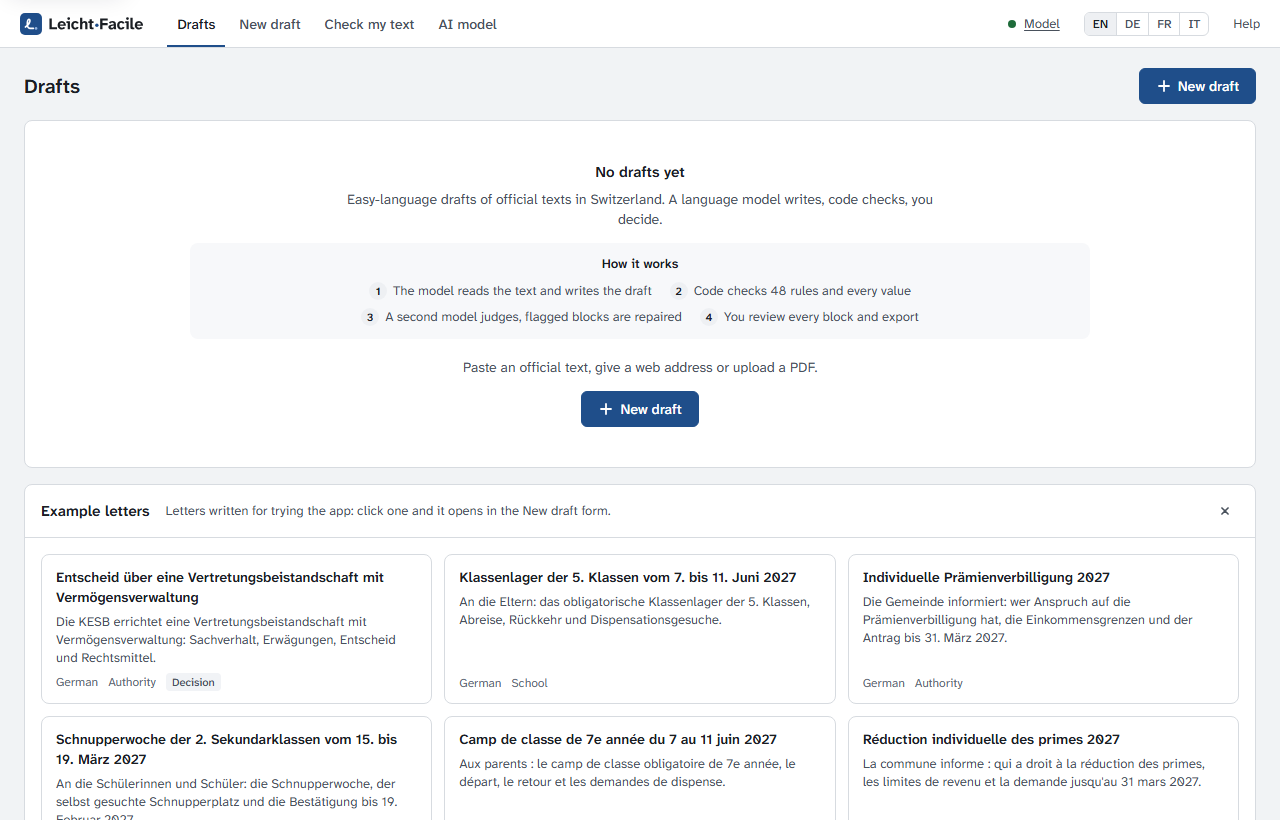
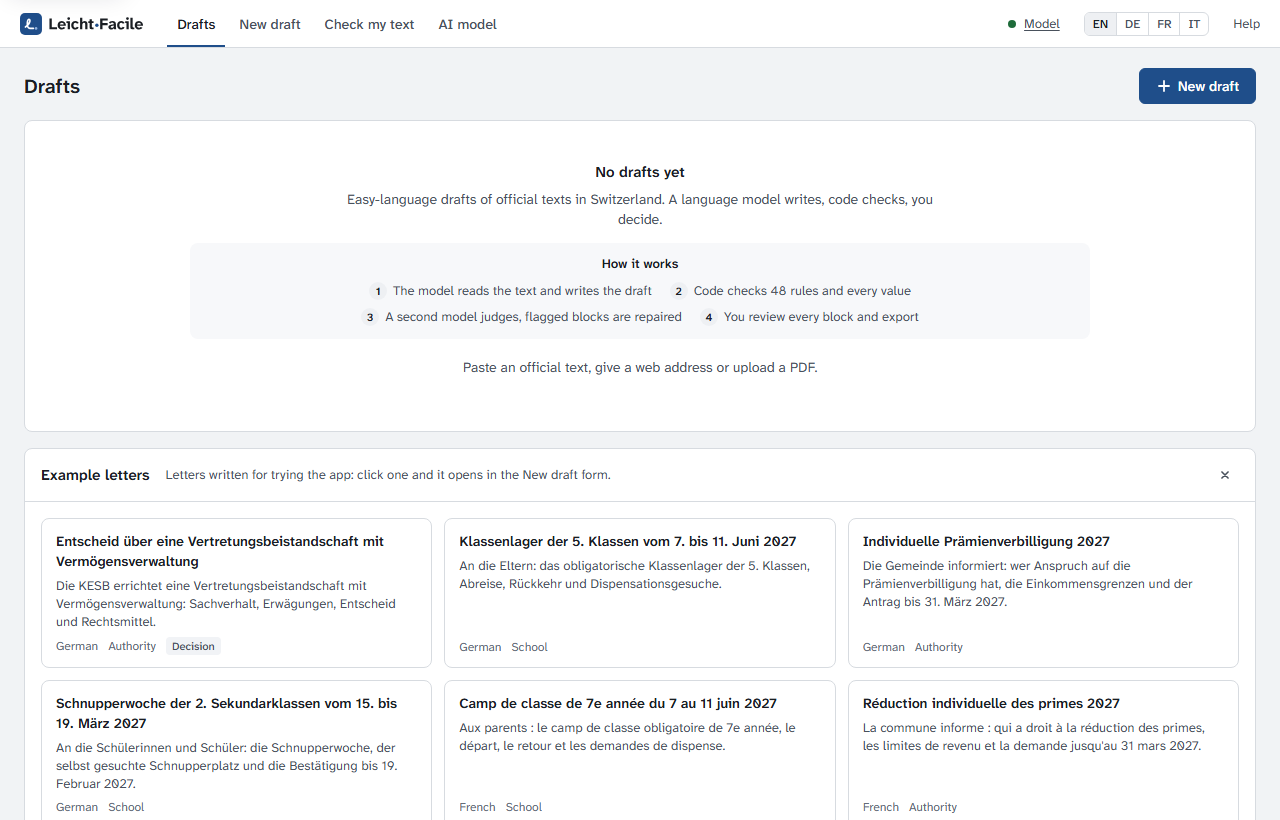
Empty drafts list: one New draft button, the page header's; the show-again button stays under the four steps

diff --git a/src/leichtfacile/web/templates/index.html b/src/leichtfacile/web/templates/index.html
@@ -138,11 +138,9 @@
         </ol>
       </section>
       <p>{{ t('drafts.empty.text') }}</p>
-      <div class="actions">
-        <a class="btn btn-primary btn-lg" href="/new">{{ icons.icon('plus') }}{{ t('site.new') }}</a>
-        {# In view only while the card of example letters below is hidden (app.js). #}
-        {% if examples %}<button type="button" class="btn btn-quiet btn-lg" data-hint-show="examples">{{ t('drafts.samples.show') }}</button>{% endif %}
-      </div>
+      {# New draft is the button in the page header. This one is in view only while the
+         card of example letters below is hidden (app.js). #}
+      {% if examples %}<div class="actions"><button type="button" class="btn btn-quiet" data-hint-show="examples">{{ t('drafts.samples.show') }}</button></div>{% endif %}
     </div>
     {% endif %}
   </div>

diff --git a/docs/ui-design.md b/docs/ui-design.md
@@ -306,8 +306,9 @@ Empty states:
 - No jobs at all: "No drafts yet", the tagline, the four steps "How it works" in a
   sunken box (`.how`: the model reads the text and writes the draft; code checks 45
   rules (`rule_count()`) and every value; a second model judges and flagged blocks are
-  repaired; you review every block and export), one sentence on what to paste, "New
-  draft" and, in view only while the card below is hidden, "Show the example letters".
+  repaired; you review every block and export), one sentence on what to paste and, in
+  view only while the card below is hidden, "Show the example letters". New draft is
+  the page header's button alone (until 6 November 2026 the empty state repeated it).
   Under the list's card a second card "Example letters" (`.samples`, since 6 November
   2026; before, the letters were a row of buttons in the empty state): the sample
   letters (`src/leichtfacile/letters/`, or the folder `data.examples_dir` names) as

diff --git a/CHANGELOG.md b/CHANGELOG.md
@@ -34,7 +34,8 @@ list of its commits, and from 0.7.0 on it is on [PyPI](https://pypi.org/project/
 - Before the first draft, the start page shows the example letters as a card of
   mini-cards under the empty list, each with a short description, its language and its
   sender, those in the interface language first, instead of a row of buttons. The
-  card's cross hides it in that browser; "Show the example letters" brings it back. An
+  card's cross hides it in that browser; "Show the example letters" brings it back. The
+  empty list no longer repeats the New draft button of the page header. An
   installation's own letters (`[data] examples_dir`) get their description from the
   `description` key of the JSON file next to each letter.
 

diff --git a/docs/user-guide.md b/docs/user-guide.md
@@ -53,7 +53,7 @@ Before the first draft, the start page explains the four steps, and the card **E
 letters** under it shows the letters that ship with the app, each with a short
 description, those in the language of the interface first. Click one to open the New
 draft form with the letter filled in. The cross on the card hides it in this browser;
-**Show the example letters**, next to the New draft button, brings it back.
+**Show the example letters**, under the four steps, brings it back.
 
 Some pages open with a short explanation in a box, such as the Facts tab of the review
 or Check my text. Once you know it, click the cross: the box stays away in this browser.
